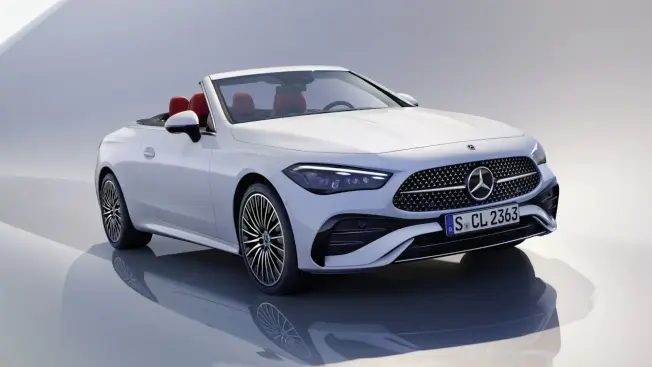
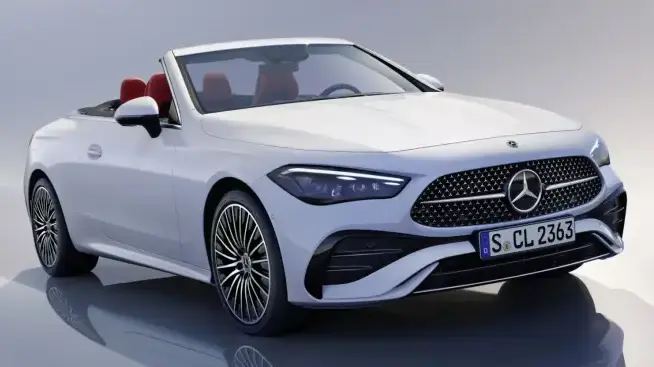
135

diff --git a/pic/mb_img_ce.html b/pic/mb_img_ce.html
@@ -589,7 +589,7 @@
 					</div>
 					<section>
 						<a href="full/ce/a236_s.jpg"><img loading="lazy" src="style/ce/a236_s.webp" alt="Mercedes,A236,E-klasse,Cabriolet,Vorderansicht" width="1210" height="806"></a><br>
-						<a href="full/ce/a236_f.jpg"><img loading="lazy" src="style/ce/a236_f.webp" alt="Mercedes,A236,E-klasse,Cabriolet,Vorderansicht" width="652" height="367"></a>
+						<a href="full/ce/a236_f.jpg"><img loading="lazy" src="style/ce/a236_f.webp" alt="Mercedes,A236,E-klasse,Cabriolet,Vorderansicht" width="654" height="367"></a>
 						<a href="full/ce/a236_ia.jpg"><img loading="lazy" src="style/ce/a236_ia.webp" alt="Mercedes,A236,E-klasse,Cabriolet" width="551" height="367"></a><br>
 						<a href="full/ce/a236_r.jpg"><img loading="lazy" src="style/ce/a236_r.webp" alt="Mercedes,A236,E-klasse,Cabriolet,Rückansicht" width="604" height="290.5"></a>
 						<a href="full/ce/a236_ra.jpg"><img loading="lazy" src="style/ce/a236_ra.webp" alt="Mercedes,A236,E-klasse,Cabriolet,Rückansicht" width="601" height="290.5"></a><br>

diff --git a/pic/ja_mb_img_ce.html b/pic/ja_mb_img_ce.html
@@ -589,7 +589,7 @@
 					</div>
 					<section>
 						<a href="full/ce/a236_s.jpg"><img loading="lazy" src="style/ce/a236_s.webp" alt="Mercedes,A236,Eクラス,Cabriolet,フロント" width="1210" height="806"></a><br>
-						<a href="full/ce/a236_f.jpg"><img loading="lazy" src="style/ce/a236_f.webp" alt="Mercedes,A236,Eクラス,Cabriolet,フロント" width="652" height="367"></a>
+						<a href="full/ce/a236_f.jpg"><img loading="lazy" src="style/ce/a236_f.webp" alt="Mercedes,A236,Eクラス,Cabriolet,フロント" width="654" height="367"></a>
 						<a href="full/ce/a236_ia.jpg"><img loading="lazy" src="style/ce/a236_ia.webp" alt="Mercedes,A236,Eクラス,Cabriolet" width="551" height="367"></a><br>
 						<a href="full/ce/a236_r.jpg"><img loading="lazy" src="style/ce/a236_r.webp" alt="Mercedes,A236,Eクラス,Cabriolet,リヤ" width="604" height="290.5"></a>
 						<a href="full/ce/a236_ra.jpg"><img loading="lazy" src="style/ce/a236_ra.webp" alt="Mercedes,A236,Eクラス,Cabriolet,リヤ" width="601" height="290.5"></a><br>

diff --git a/pic/en_mb_img_ce.html b/pic/en_mb_img_ce.html
@@ -589,7 +589,7 @@
 					</div>
 					<section>
 						<a href="full/ce/a236_s.jpg"><img loading="lazy" src="style/ce/a236_s.webp" alt="Mercedes,A236,E-class,Cabriolet,Front view" width="1210" height="806"></a><br>
-						<a href="full/ce/a236_f.jpg"><img loading="lazy" src="style/ce/a236_f.webp" alt="Mercedes,A236,E-class,Cabriolet,Front view" width="652" height="367"></a>
+						<a href="full/ce/a236_f.jpg"><img loading="lazy" src="style/ce/a236_f.webp" alt="Mercedes,A236,E-class,Cabriolet,Front view" width="654" height="367"></a>
 						<a href="full/ce/a236_ia.jpg"><img loading="lazy" src="style/ce/a236_ia.webp" alt="Mercedes,A236,E-class,Cabriolet" width="551" height="367"></a><br>
 						<a href="full/ce/a236_r.jpg"><img loading="lazy" src="style/ce/a236_r.webp" alt="Mercedes,A236,E-class,Cabriolet,Rear view" width="604" height="290.5"></a>
 						<a href="full/ce/a236_ra.jpg"><img loading="lazy" src="style/ce/a236_ra.webp" alt="Mercedes,A236,E-class,Cabriolet,Rear view" width="601" height="290.5"></a><br>
